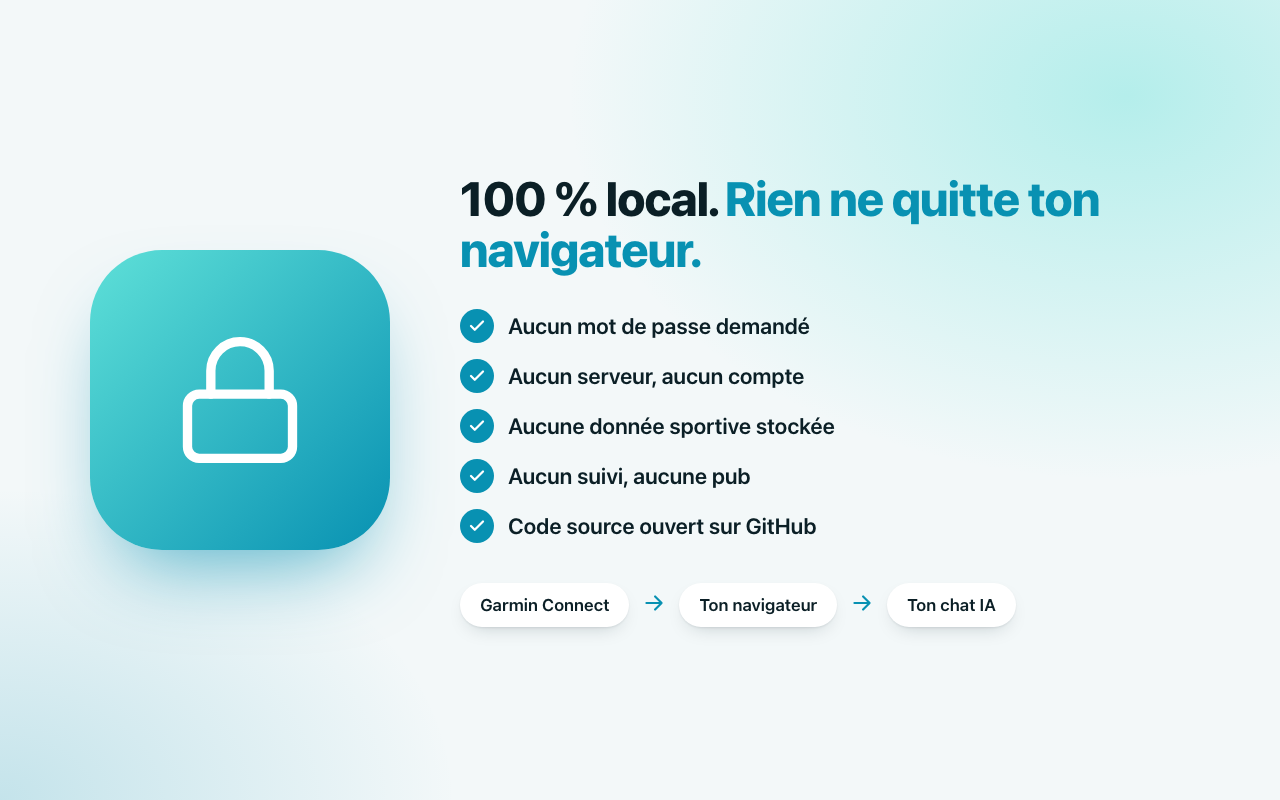
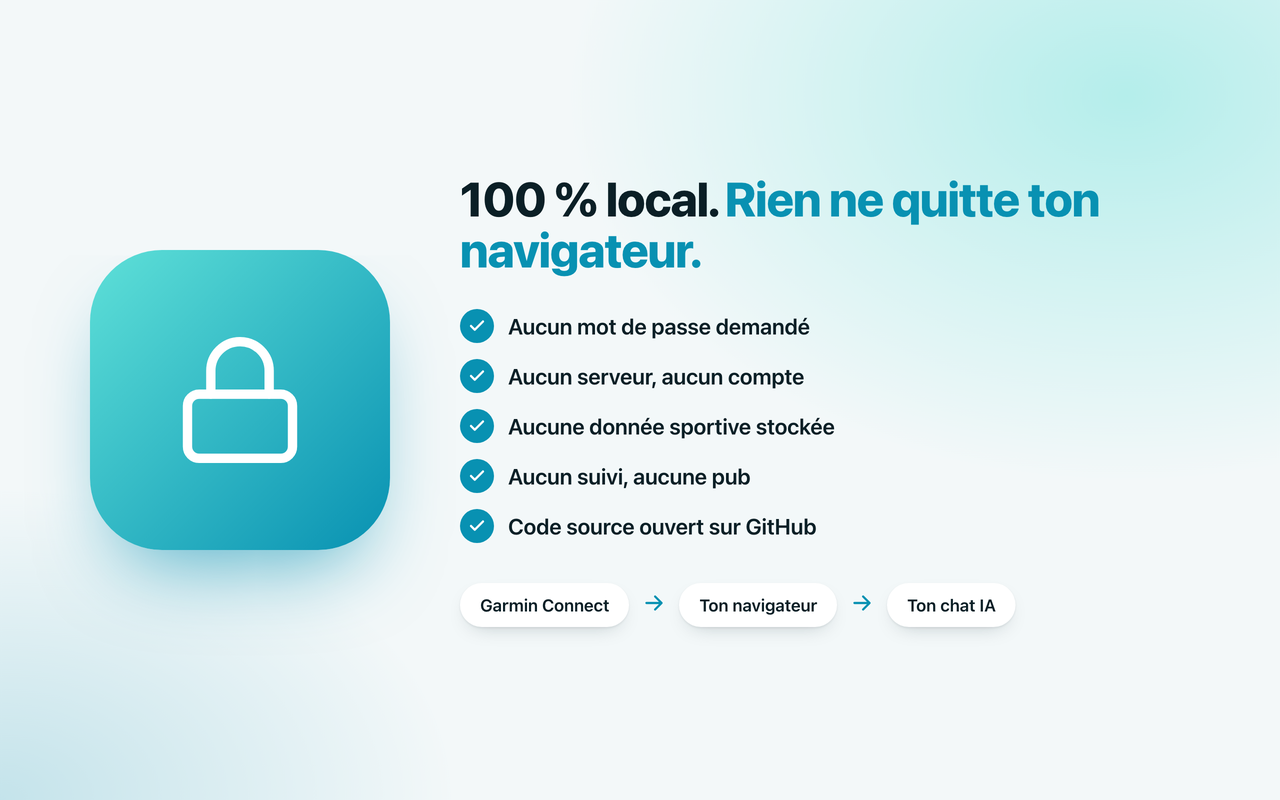
Captures du Store : vrais Claude et ChatGPT avec le bouton Garmin mis en évidence

diff --git a/store/make_store_images.py b/store/make_store_images.py
@@ -1,7 +1,8 @@
 """Toutes les images du Chrome Web Store, en anglais et en français.
 
-Chaque image est une petite page HTML rendue par Chrome en mode headless : texte net, vraies polices,
-panneau de l'extension recréé avec son propre style. Les chiffres affichés sont des exemples inventés.
+Chaque image est une petite page HTML rendue par Chrome en mode headless, en double résolution puis réduite :
+texte net, vraies polices. Les captures 1 et 2 sont de vraies captures de claude.ai et chatgpt.com
+(store/sources/, prénom déjà masqué), les chiffres de la capture 3 sont des exemples inventés.
 
 Usage : uv run --no-project --with pillow python store/make_store_images.py
 Sortie : store/screenshots/<lang>/1 à 5 (1280x800), store/<lang>/banniere-1400x560.png et promo-440x280.png.
@@ -21,6 +22,11 @@ CHROME = "/Applications/Google Chrome.app/Contents/MacOS/Google Chrome"
 TEXT = {
     "en": {
         "name": "My Garmin Stats for Claude",
+        "sites": {
+            "claude": ("Right inside <em>Claude</em>", "The Garmin button appears in the corner of every chat."),
+            "chatgpt": ("And inside <em>ChatGPT</em>", "Same button, same file, one click."),
+        },
+        "click": "Click here",
         "tagline": "Your Garmin stats in Claude and ChatGPT, in one click. 100% local.",
         "free": "Free Chrome extension",
         "hero_title": "Your Garmin stats, <em>right in your AI chat</em>",
@@ -66,6 +72,11 @@ TEXT = {
     },
     "fr": {
         "name": "Mes Stats Garmin pour Claude",
+        "sites": {
+            "claude": ("Directement dans <em>Claude</em>", "Le bouton Garmin apparaît dans le coin de chaque conversation."),
+            "chatgpt": ("Et dans <em>ChatGPT</em>", "Même bouton, même fichier, en un clic."),
+        },
+        "click": "Clique ici",
         "tagline": "Tes stats Garmin dans Claude et ChatGPT, en un clic. 100 % local.",
         "free": "Extension Chrome gratuite",
         "hero_title": "Tes stats Garmin, <em>directement dans ton chat IA</em>",
@@ -192,41 +203,46 @@ def panel(lang: str) -> str:
 </div>"""
 
 
-def chat_window(lang: str, inner: str, w: int, h: int) -> str:
-    """Fenêtre de chat sombre et neutre (aucune marque) où apparaît le bouton Garmin."""
-    return f"""
-<div style="position:relative;width:{w}px;height:{h}px;border-radius:20px;background:#1c1c1b;overflow:hidden;
-  box-shadow:0 30px 80px -20px rgba(11,31,38,.45)">
-  <div style="display:flex;gap:8px;padding:16px 18px">
-    <span style="width:12px;height:12px;border-radius:50%;background:#ff5f57"></span>
-    <span style="width:12px;height:12px;border-radius:50%;background:#febc2e"></span>
-    <span style="width:12px;height:12px;border-radius:50%;background:#28c840"></span>
-  </div>
-  <div style="position:absolute;left:36px;right:36px;top:46%;height:96px;border-radius:18px;background:#2a2a28;
-    border:1px solid #3a3a37;padding:18px 22px;color:#8d8d86;font-size:18px">{html.escape(TEXT[lang]["ask"])}</div>
-  {inner}
-</div>"""
-
 
 def page(w: int, h: int, body: str) -> str:
     return f"<!doctype html><meta charset='utf-8'><style>{BASE_CSS % {'w': w, 'h': h}}</style><body>{body}</body>"
 
 
-def hero(lang: str) -> str:
+
+# Bouton Garmin dans chaque capture source (pixels de l'image d'origine).
+FAB = {
+    "claude-en": (1830, 1050, 2008, 1117),
+    "claude-fr": (1828, 996, 2006, 1063),
+    "chatgpt-en": (2043, 1120, 2221, 1187),
+    "chatgpt-fr": (1987, 1242, 2165, 1309),
+}
+
+
+def site_shot(site: str, lang: str) -> str:
+    """Vraie capture du site, entière, avec le bouton Garmin entouré."""
     T = TEXT[lang]
-    chips = "".join(f'<span class="chip">{icon("check", 18, width=3)}{html.escape(c)}</span>' for c in T["chips"])
-    inner = f"""
-  <div style="position:absolute;right:28px;bottom:92px;zoom:1.3">{panel(lang)}</div>
-  <div style="position:absolute;right:28px;bottom:26px;zoom:1.3"><span class="fab">⌚ Garmin</span></div>"""
+    heading, sub = T["sites"][site]
+    src = HERE / "sources" / f"{site}-{lang}.png"
+    w0, h0 = Image.open(src).size
+    scale = min(1100 / w0, 556 / h0)
+    w, h = round(w0 * scale), round(h0 * scale)
+    x0, y0, x1, y1 = (round(v * scale) for v in FAB[f"{site}-{lang}"])
+    pad = 10
+    ring = f"left:{x0 - pad}px;top:{y0 - pad}px;width:{x1 - x0 + 2 * pad}px;height:{y1 - y0 + 2 * pad}px"
+    label = f"right:{w - x0 + 26}px;top:{(y0 + y1) // 2 - 22}px"
     return page(1280, 800, f"""
-<div style="display:flex;align-items:center;gap:48px;height:100%;padding:0 50px 0 80px">
-  <div style="width:500px;flex:none">
-    <span class="eyebrow">{html.escape(T["free"])}</span>
-    <h1>{T["hero_title"]}</h1>
-    <p class="lead">{html.escape(T["hero_lead"])}</p>
-    <div class="chips">{chips}</div>
+<div style="display:flex;flex-direction:column;align-items:center;height:100%;padding-top:46px">
+  <h1 style="margin:0 0 10px;font-size:46px;text-align:center">{heading}</h1>
+  <p class="lead" style="margin:0 0 30px;text-align:center">{html.escape(sub)}</p>
+  <div style="position:relative;width:{w}px;height:{h}px;border-radius:16px;overflow:visible;
+    box-shadow:0 1px 2px rgba(11,31,38,.1),0 30px 70px -20px rgba(11,31,38,.45)">
+    <img src="{src.as_uri()}" style="display:block;width:{w}px;height:{h}px;border-radius:16px">
+    <div style="position:absolute;{ring};border-radius:999px;border:4px solid #5ee0d8;
+      box-shadow:0 0 0 7px rgba(94,224,216,.35),0 0 30px rgba(94,224,216,.8)"></div>
+    <div style="position:absolute;{label};display:flex;align-items:center;gap:10px;padding:10px 18px;border-radius:999px;
+      background:#fff;font-size:19px;font-weight:700;color:#0b1f26;box-shadow:0 10px 30px -8px rgba(0,0,0,.5)">
+      {html.escape(T["click"])}<span style="color:#0891b2">{icon("arrow", 22, width=2.6)}</span></div>
   </div>
-  {chat_window(lang, inner, 602, 720)}
 </div>""")
 
 
@@ -287,22 +303,6 @@ def features(lang: str) -> str:
 </div>""")
 
 
-def steps(lang: str) -> str:
-    T = TEXT[lang]
-    cards = "".join(f"""
-    <div class="card" style="flex:1;padding:36px 32px 40px">
-      <div style="display:grid;place-items:center;width:64px;height:64px;border-radius:50%;background:linear-gradient(135deg,#5ee0d8,#0891b2);
-        color:#fff;font-size:30px;font-weight:800">{i + 1}</div>
-      <div style="margin:28px 0 10px;font-size:30px;font-weight:800;letter-spacing:-.02em">{html.escape(t)}</div>
-      <div style="font-size:19px;line-height:1.5;color:#4b6670">{html.escape(d)}</div>
-    </div>""" for i, (t, d) in enumerate(T["steps"]))
-    return page(1280, 800, f"""
-<div style="display:flex;flex-direction:column;justify-content:center;height:100%;padding:0 80px">
-  <h1 style="margin:0 0 50px;text-align:center">{T["steps_title"]}</h1>
-  <div style="display:flex;gap:28px">{cards}</div>
-  <div style="display:flex;justify-content:center;gap:12px;margin-top:44px"><span class="fab" style="zoom:1.4">⌚ Garmin</span></div>
-</div>""")
-
 
 def privacy(lang: str) -> str:
     T = TEXT[lang]
@@ -351,12 +351,12 @@ def render(html_text: str, out: Path, size: tuple[int, int], work: Path) -> None
     src = work / f"{out.parent.name}-{out.stem}.html"
     src.write_text(html_text)
     shot = work / "shot.png"
-    subprocess.run([CHROME, "--headless=new", "--disable-gpu", "--hide-scrollbars", "--force-device-scale-factor=1",
+    # Rendu en double résolution puis réduction : contours et textes plus fins qu'un rendu direct.
+    subprocess.run([CHROME, "--headless=new", "--disable-gpu", "--hide-scrollbars", "--force-device-scale-factor=2",
                     "--allow-file-access-from-files", f"--window-size={size[0]},{size[1]}", "--virtual-time-budget=1500",
                     f"--screenshot={shot}", src.as_uri()], check=True, capture_output=True)
     img = Image.open(shot).convert("RGB")  # le Store veut du PNG 24 bits, sans transparence
-    if img.size != size:
-        img = img.crop((0, 0, *size))
+    img = img.crop((0, 0, size[0] * 2, size[1] * 2)).resize(size, Image.LANCZOS)
     out.parent.mkdir(parents=True, exist_ok=True)
     img.save(out)
 
@@ -369,10 +369,12 @@ if __name__ == "__main__":
         uri = icon_png.as_uri()
         for lang in TEXT:
             shots = HERE / "screenshots" / lang
-            render(hero(lang), shots / "1-hero-1280x800.png", (1280, 800), work)
-            render(file_shot(lang), shots / "2-file-1280x800.png", (1280, 800), work)
-            render(features(lang), shots / "3-features-1280x800.png", (1280, 800), work)
-            render(steps(lang), shots / "4-steps-1280x800.png", (1280, 800), work)
+            for old in shots.glob("*.png"):
+                old.unlink()
+            render(site_shot("claude", lang), shots / "1-claude-1280x800.png", (1280, 800), work)
+            render(site_shot("chatgpt", lang), shots / "2-chatgpt-1280x800.png", (1280, 800), work)
+            render(file_shot(lang), shots / "3-file-1280x800.png", (1280, 800), work)
+            render(features(lang), shots / "4-features-1280x800.png", (1280, 800), work)
             render(privacy(lang), shots / "5-privacy-1280x800.png", (1280, 800), work)
             render(marquee(lang, uri), HERE / lang / "banniere-1400x560.png", (1400, 560), work)
             render(promo(lang, uri), HERE / lang / "promo-440x280.png", (440, 280), work)

diff --git a/store/LISTING.md b/store/LISTING.md
@@ -61,7 +61,7 @@ Projet indépendant, non affilié à Garmin ni à Anthropic. Garmin et Garmin Co
 |---|---|---|
 | Icône 128x128 | `icons/icon128.png` | prêt |
 | Vignette promo 440x280 | `store/en/promo-440x280.png` et `store/fr/promo-440x280.png` | prêt |
-| Captures d'écran 1280x800 (5 maximum) | `store/screenshots/en/` et `store/screenshots/fr/` (1-claude, 2-chatgpt, 3-data, 4-steps, 5-privacy) | prêtes, générées par `store/make_store_images.py` |
+| Captures d'écran 1280x800 (5 maximum) | `store/screenshots/en/` et `store/screenshots/fr/` (1-claude, 2-chatgpt, 3-file, 4-features, 5-privacy) | prêtes, générées par `store/make_store_images.py` |
 
 **Captures d'écran à prendre** (format 1280x800, sans données que tu ne veux pas montrer) :
 
